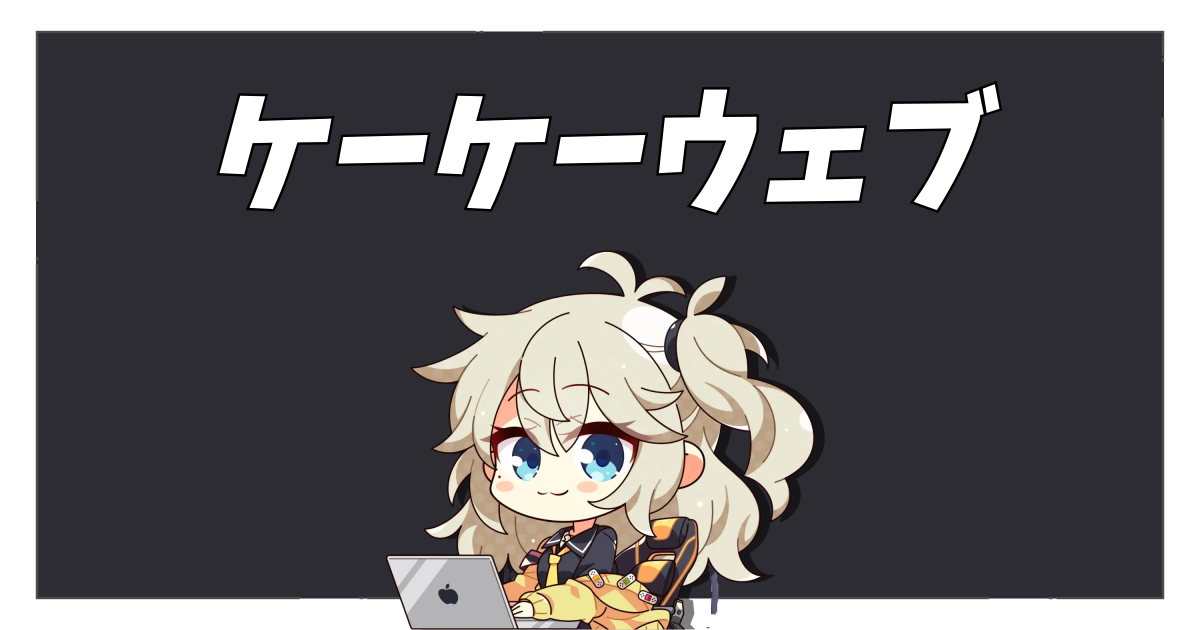
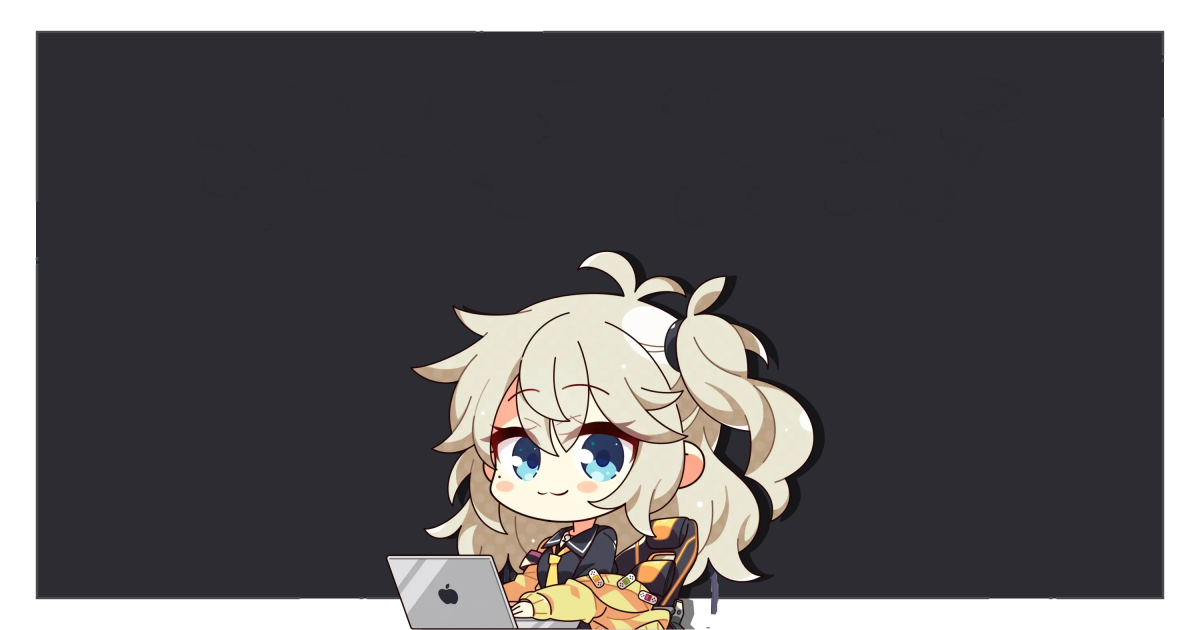
feat: generate og image dynamically

Changed region(s): [[0.185, 0.1206, 0.8325, 0.3619]]

diff --git a/src/app/articles/[slug]/image/route.tsx b/src/app/articles/[slug]/image/route.tsx
@@ -1,0 +1,112 @@
+import { promises as fs } from "fs";
+import path from "path";
+import { ImageResponse } from "@vercel/og";
+import { NextRequest } from "next/server";
+import parseMD from "parse-md";
+
+function getUniqueChars(text: string): string {
+  const charSet = new Set<string>();
+
+  for (const char of text) {
+    charSet.add(char);
+  }
+
+  return Array.from(charSet).join("");
+}
+
+type GetArticleParams = {
+  slug: string;
+};
+
+type GetArticleData = {
+  title: string;
+};
+
+async function getArticle({ slug }: GetArticleParams): Promise<GetArticleData> {
+  const markdownPath = path.join(
+    process.cwd(),
+    "/src/markdown-pages",
+    `${slug}.md`,
+  );
+  const fileContents = await fs.readFile(markdownPath, "utf8");
+  const { metadata } = parseMD(fileContents);
+  const { title } = metadata as {
+    title: string;
+  };
+
+  return { title };
+}
+
+type Context = {
+  params: { slug: string };
+};
+
+// eslint-disable-next-line import/prefer-default-export
+export async function GET(
+  _: NextRequest,
+  { params: { slug } }: Context,
+): Promise<ImageResponse> {
+  const { title } = await getArticle({ slug });
+  const fontData = await fetch(
+    `https://fonts.googleapis.com/css2?family=Noto+Sans+JP:wght@700&text=${encodeURIComponent(
+      getUniqueChars(title),
+    )}`,
+  ).then((res) => res.text());
+  const fontUrl = fontData.match(/url\((.*?)\)/)?.[1];
+
+  if (!fontUrl) {
+    throw new Error("Failed to load font");
+  }
+
+  const font = await fetch(fontUrl).then((res) => res.arrayBuffer());
+  const imageIndex = (parseInt(slug, 10) % 2) + 1;
+
+  return new ImageResponse(
+    (
+      <div
+        style={{
+          // background: `url('http://localhost:3000/kk-web_${imageIndex}.png')`,
+          background: `url('https://kk-web.link/kk-web_${imageIndex}.png')`,
+          display: "flex",
+          height: "100%",
+          padding: "30px 36px",
+          width: "100%",
+        }}
+      >
+        <div
+          style={{
+            alignItems: "center",
+            color: "#fff",
+            display: "flex",
+            // eslint-disable-next-line quotes
+            fontFamily: '"Noto Sans JP", sans-serif',
+            fontSize: "42px",
+            fontWeight: "bold",
+            height: "44%",
+            justifyContent: "center",
+            padding: "0 36px",
+            textAlign: "center",
+            width: "100%",
+          }}
+        >
+          {title.split("\n").map((line, i) => (
+            <div key={i}>{line}</div>
+          ))}
+        </div>
+      </div>
+    ),
+    {
+      debug: false,
+      fonts: [
+        {
+          data: font,
+          name: "Noto Sans JP",
+          style: "normal",
+          weight: 700,
+        },
+      ],
+      height: 630,
+      width: 1200,
+    },
+  );
+}

diff --git a/src/libs/getMetadata/index.ts b/src/libs/getMetadata/index.ts
@@ -2,7 +2,7 @@ import { Metadata } from "next";
 
 export type GetMetadataParams = {
   description?: string;
-  imageIndex?: number;
+  imageUrl?: string;
   path?: string;
   subTitle?: string;
   type?: "article" | "website";
@@ -10,7 +10,7 @@ export type GetMetadataParams = {
 
 export default function getMetadata({
   description = "Freelance front end developer and video creator piro's website",
-  imageIndex = 0,
+  imageUrl = "https://kk-web.link/kk-web_0.png",
   path = "/",
   subTitle = "",
   type = "article",
@@ -27,7 +27,7 @@ export default function getMetadata({
       description,
       images: [
         {
-          url: `https://kk-web.link/kk-web_${imageIndex}.png`,
+          url: imageUrl,
         },
       ],
       siteName: "kk-web",
@@ -42,7 +42,7 @@ export default function getMetadata({
     title: `${subTitle && `${subTitle} - `}kk-web`,
     twitter: {
       card: "summary_large_image",
-      images: `https://kk-web.link/kk-web_${imageIndex}.png`,
+      images: imageUrl,
     },
   };
 }

diff --git a/src/app/blog/[slug]/page.tsx b/src/app/blog/[slug]/page.tsx
@@ -42,11 +42,11 @@ export async function generateMetadata({
   params: { slug },
 }: PageProps): Promise<Metadata> {
   const { content, title } = await getArticle({ slug });
-  const imageIndex = (parseInt(slug, 10) % 2) + 1;
 
   return getMetadata({
     description: content.slice(0, 300),
-    imageIndex,
+    // imageUrl: `http://localhost:3000/articles/${slug}/image`,
+    imageUrl: `https://kk-web.link/articles/${slug}/image`,
     path: `/blog/${slug}`,
     subTitle: title,
   });

diff --git a/src/app/articles/[slug]/route.ts b/src/app/articles/[slug]/route.ts
@@ -15,7 +15,7 @@ type Context = {
 
 // eslint-disable-next-line import/prefer-default-export
 export async function GET(
-  request: NextRequest,
+  _: NextRequest,
   { params: { slug } }: Context,
 ): Promise<NextResponse<GetArticleResponseBody>> {
   const markdownPath = path.join(
